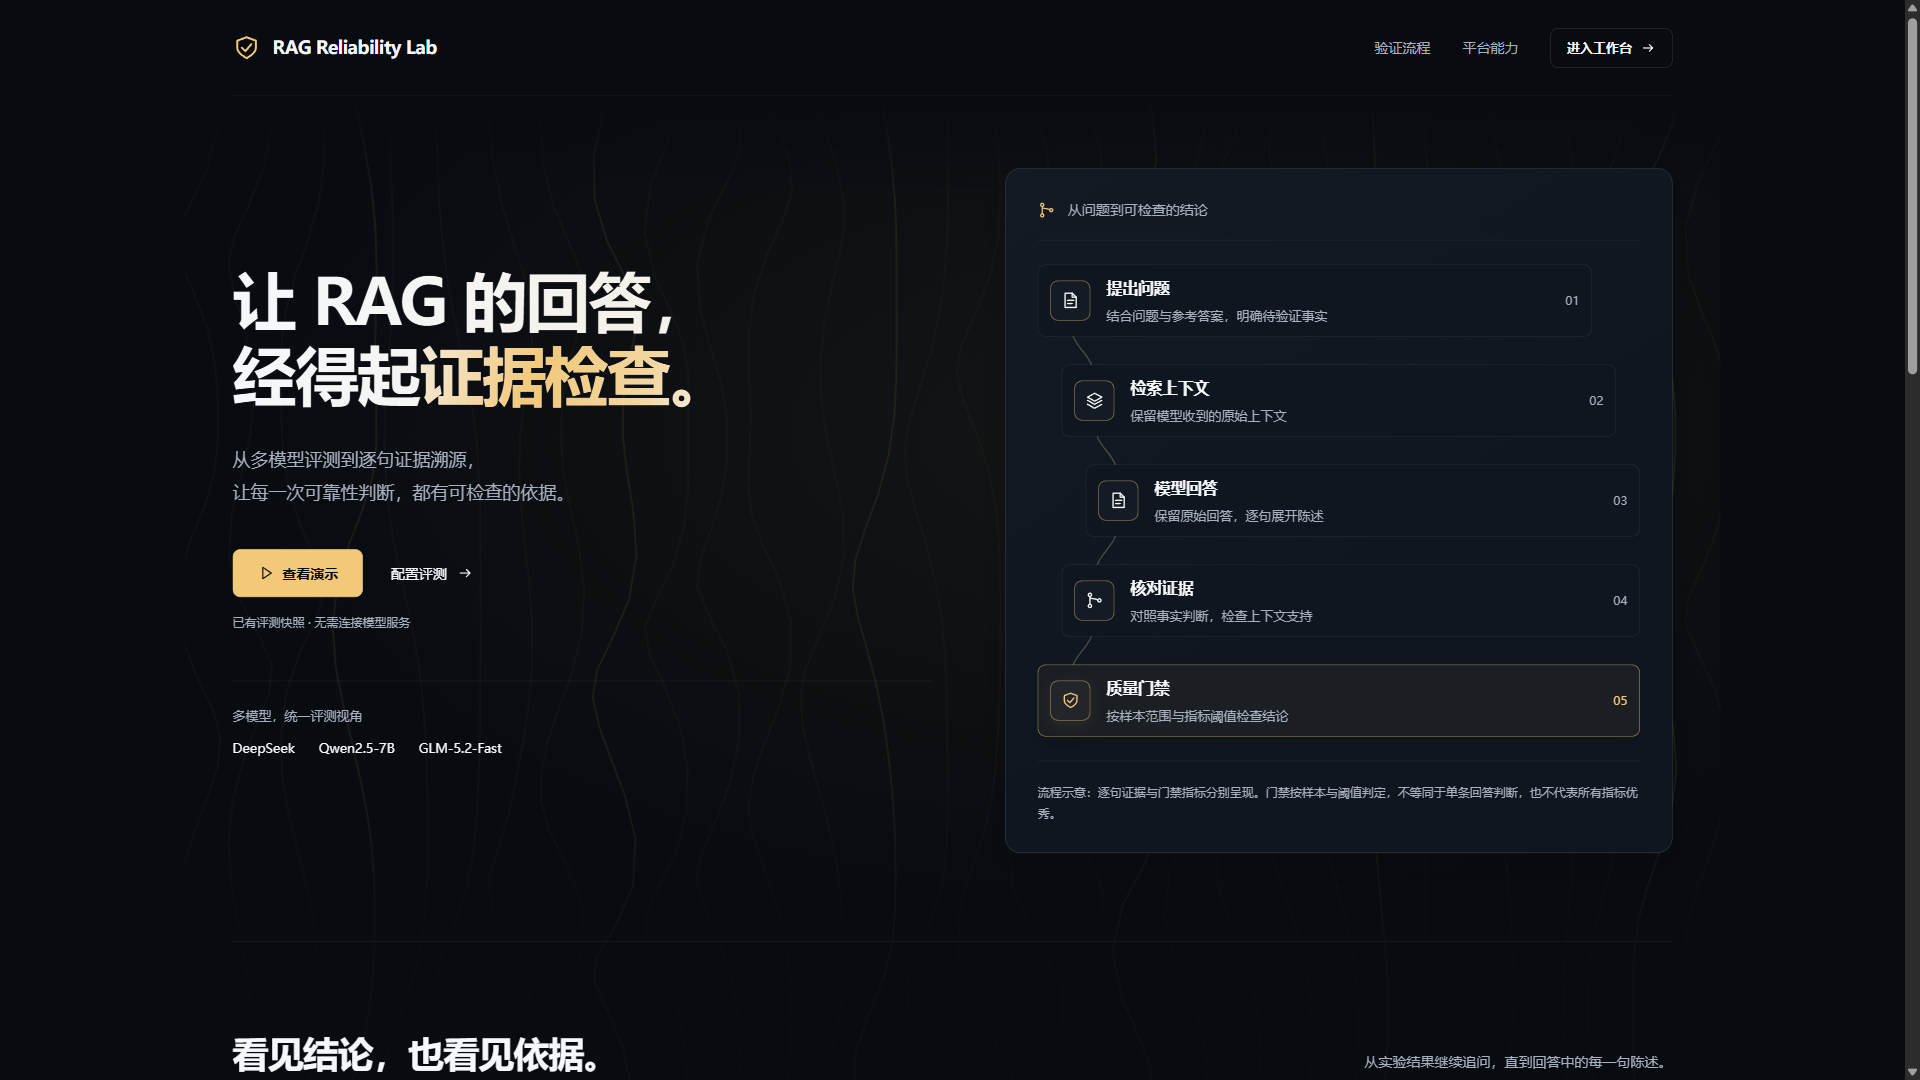
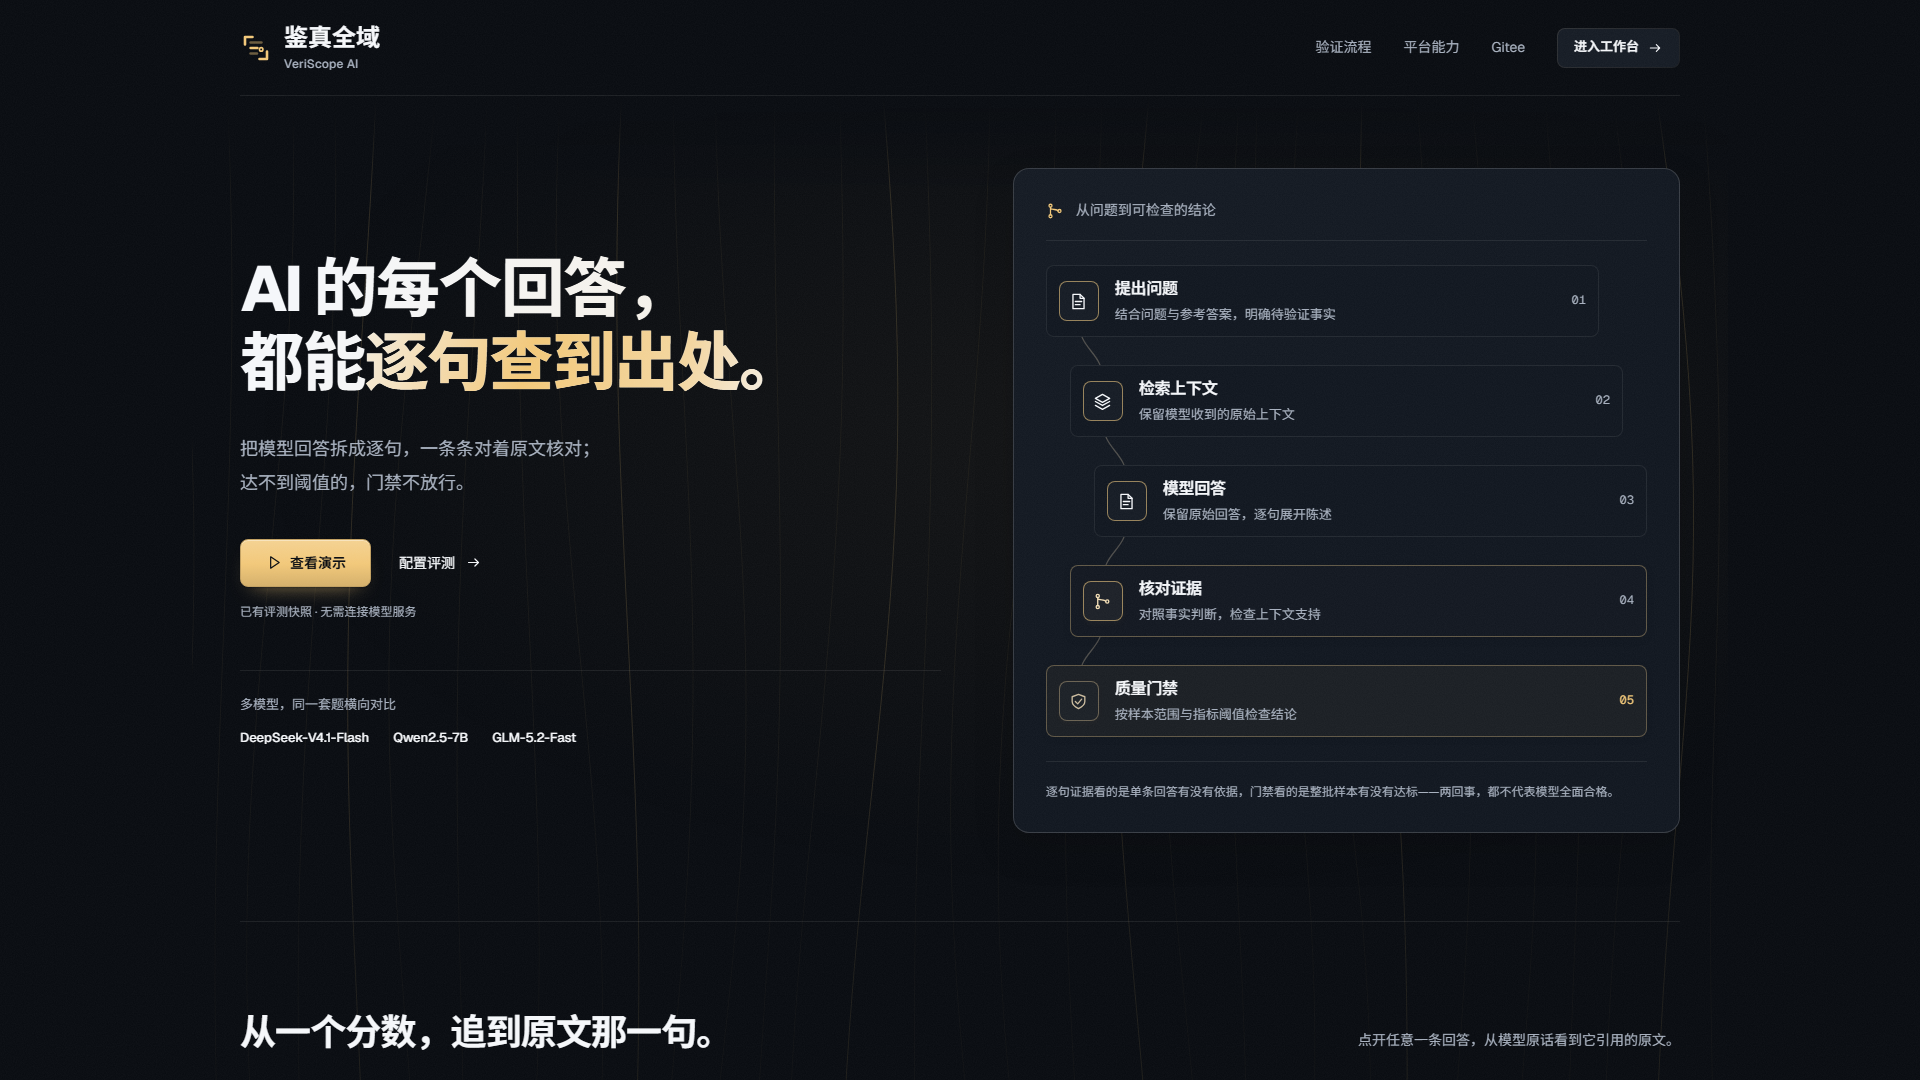
docs: README 首屏精简，更新截图与截图说明

diff --git a/docs/screenshots/README.md b/docs/screenshots/README.md
@@ -7,8 +7,8 @@
 | `../images/landing-desktop.png` | 1920×1080 | 比赛首页首屏 |
 | `../images/landing-laptop.png` | 1280×800 | 笔记本首页首屏 |
 | `../images/evidence-desktop.png` | 1920×1080 | 门禁结论与证据章节 |
-| `../images/evidence-trace-3x.png` | 1920×1080 / 3× | 原生逐句证据预览局部 PNG，3198×846 |
+| `../images/evidence-trace-3x.png` | 1920×1080 / 3× | 首页逐句判定卡片，按 3 倍像素截取（3198×843） |
 
-来源：2026-10-04 已完成的本地 Chrome / Playwright 展示验收产物。图片直接复制，无放大、压缩或修改数据；页面预览取自快照 `20260930-1958`，并非截图时新执行的评测。
+来源：2026-10-16 用 Playwright（Chromium，深色）从在线演示站 kk444444444444.cloud 截取，等首屏动效结束后再截；图片未放大、压缩或修改数据。页面预览取自快照 `20260930-1958`，并非截图时新执行的评测。
 
 更新图片前检查画面中没有真实密钥、账号配置、控制台内容或个人数据。临时截图继续放在被忽略的 `frontend/test-results/`，不将整个测试目录加入仓库。
